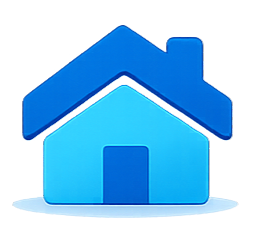
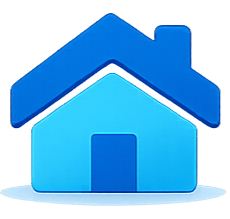
color

Changed region(s): [[0.0, 0.0548, 1.0, 0.9589]]

diff --git a/my-react-app/src/components/layout/Navbar.tsx b/my-react-app/src/components/layout/Navbar.tsx
@@ -8,21 +8,28 @@ import handlist from "../../assets/images/handlist.png";
 
 const Navbar: React.FC = () => {
   return (
-    <header className="sticky top-0 z-50 w-full border-b border-slate-200  bg-background-light/80  backdrop-blur-md">
+    <header className="sticky top-0 z-50 w-full border-b border-slate-200  bg-background-light/80  backdrop-blur-md ">
       <div className="flex w-full justify-center">
         <div className="flex w-full max-w-[1280px] items-center justify-between px-6 py-4 lg:px-10">
           {/* Logo */}
           <div className="flex items-center gap-3">
-            <div className="w-10 h-10 bg-white text-primary rounded-lg flex items-center justify-center shadow-sm">
+            {/* <div className="w-10 h-10 bg-white text-primary rounded-lg flex items-center justify-center shadow-sm">
               <img
                 src={logo}
                 alt="Lingo Speak Logo"
                 className="w-full h-full object-contain rounded-full"
               />
-            </div>
-            <h2 className="text-4xl font-bold tracking-tight">
-              <span style={{ color: "#115E59" }}>Lingo</span>
-              <span style={{ color: "#1E4F7A" }}>Speak</span>
+            </div> */}
+            <h2 className="flex items-baseline text-6xl font-bold tracking-tight gap-1 ">
+              <span className="bg-gradient-to-r from-blue-500 to-cyan-500 bg-clip-text text-transparent">
+                Ling
+              </span>
+
+              <img src={logo} alt="logo" className="h-12 w-12 inline-block" />
+
+              <span className="bg-gradient-to-r from-blue-500 to-cyan-500 bg-clip-text text-transparent">
+                Speak
+              </span>
             </h2>
           </div>
 
@@ -60,10 +67,15 @@ const Navbar: React.FC = () => {
 
           {/* Actions */}
           <div className="flex items-center gap-4">
-            <button className="hidden h-10 rounded-lg bg-primary/10 px-4 text-sm font-bold text-primary hover:bg-primary/20 sm:flex pt-2">
+            <button
+              className="h-11 px-6 rounded-xl text-white text-sm font-semibold
+                bg-gradient-to-r from-blue-500 via-cyan-500 to-emerald-500
+                shadow-lg shadow-blue-300/40
+                hover:scale-[1.03] transition"
+            >
               Đăng xuất
             </button>
-            <div className="size-10 overflow-hidden rounded-full border-2 border-white dark:border-slate-700 bg-slate-200">
+            <div className="size-11 overflow-hidden rounded-full border-2 border-cyan-200 dark:border-slate-700 bg-slate-200">
               <img
                 src={avatar}
                 alt="Lingo Speak Logo"

diff --git a/my-react-app/src/pages/Home.tsx b/my-react-app/src/pages/Home.tsx
@@ -6,7 +6,6 @@ import user1 from "../assets/images/user1.jpg";
 import user2 from "../assets/images/user2.jpg";
 import user3 from "../assets/images/user3.jpg";
 
-
 const avatarList = [user1, user2, user3];
 const typeQuestion = [
   {
@@ -113,7 +112,8 @@ const Home: React.FC = () => {
               <div className="space-y-4">
                 <h1 className="text-4xl font-black leading-tight tracking-tight md:text-5xl lg:text-6xl">
                   Học nói tiếng Anh <br className="hidden lg:block" />
-                  <span className="text-primary">đơn giản</span> – hiệu quả
+                  <span className="text-primary italic">đơn giản</span> – hiệu
+                  quả
                 </h1>
                 <p className="text-base text-slate-600  md:text-lg">
                   Nâng cao vốn từ vựng và tự tin giao tiếp với lộ trình học tập
@@ -122,10 +122,20 @@ const Home: React.FC = () => {
               </div>
 
               <div className="flex flex-col items-center gap-3 sm:flex-row md:justify-start">
-                <button className="h-12 min-w-[160px] rounded-xl bg-primary px-6 text-base font-bold text-white shadow-lg shadow-primary/25 transition-transform hover:scale-105 active:scale-95">
+                <button
+                  className="h-11 px-6 rounded-xl text-white text-sm font-semibold
+                bg-gradient-to-r from-blue-500 via-cyan-500 to-emerald-500
+                shadow-lg shadow-blue-300/40
+                hover:scale-[1.03] transition"
+                >
                   Bắt đầu học ngay
                 </button>
-                <button className="h-12 min-w-[160px] rounded-xl border border-slate-200  bg-white  px-6 text-base font-bold text-slate-700  hover:bg-slate-50 transition-colors">
+                <button
+                  className="h-11 px-6 rounded-xl text-sm font-semibold text-blue-600
+                bg-white border border-cyan-300
+
+                hover:bg-blue-50 transition"
+                >
                   Tìm hiểu thêm
                 </button>
               </div>

diff --git a/my-react-app/src/pages/SignUp.tsx b/my-react-app/src/pages/SignUp.tsx
@@ -19,13 +19,23 @@ const SignUp: React.FC = () => {
     >
       <div className="w-full max-w-6xl grid grid-cols-1 lg:grid-cols-2 gap-14 px-6">
         {/* LEFT CONTENT */}
-        <div className="flex flex-col justify-center gap-8">
+        <div className="flex flex-col justify-center gap-8 ">
           {/* Logo */}
-          <div className="flex items-center gap-3">
-            <div className="w-10 h-10 bg-white rounded-xl flex items-center justify-center shadow">
+          <div className="flex items-center gap-3 pb-8">
+            {/* <div className="w-10 h-10 bg-white rounded-xl flex items-center justify-center shadow">
               <img src={logo} alt="logo" className="rounded-full" />
-            </div>
-            <h2 className="text-4xl font-bold text-slate-900">LingoSpeak</h2>
+            </div> */}
+            <h2 className="flex items-center text-6xl font-bold tracking-tight gap-1">
+              <span className="bg-gradient-to-r from-blue-500 to-cyan-500 bg-clip-text text-transparent">
+                Ling
+              </span>
+
+              <img src={logo} alt="logo" className="h-12 w-12 inline-block" />
+
+              <span className="bg-gradient-to-r from-blue-500 to-cyan-500 bg-clip-text text-transparent">
+                Speak
+              </span>
+            </h2>
           </div>
 
           <h1 className="text-4xl font-extrabold leading-snug text-slate-900">
@@ -56,7 +66,7 @@ const SignUp: React.FC = () => {
             <button
               className="
                 h-11 px-6 rounded-xl text-sm font-semibold text-blue-600
-                bg-white border border-blue-200
+                bg-white border border-cyan-300
                 hover:bg-blue-50 transition
               "
             >

diff --git a/my-react-app/src/components/layout/Footer.tsx b/my-react-app/src/components/layout/Footer.tsx
@@ -9,16 +9,23 @@ const HomeFooter = () => {
           {/* Brand */}
           <div className="flex flex-col gap-4">
             <div className="flex items-center gap-3">
-              <div className="w-10 h-10 rounded-lg bg-white shadow-sm flex items-center justify-center">
+              {/* <div className="w-10 h-10 rounded-lg bg-white shadow-sm flex items-center justify-center">
                 <img
                   src={logo}
                   alt="Lingo Speak Logo"
                   className="w-full h-full object-contain rounded-full"
                 />
-              </div>
-              <h2 className="text-3xl font-bold tracking-tight">
-                <span style={{ color: "#115E59" }}>Lingo</span>
-                <span style={{ color: "#1E4F7A" }}>Speak</span>
+              </div> */}
+              <h2 className="flex items-center text-4xl font-bold tracking-tight gap-1">
+                <span className="bg-gradient-to-r from-blue-500 to-cyan-500 bg-clip-text text-transparent">
+                  Ling
+                </span>
+
+                <img src={logo} alt="logo" className="h-12 w-12 inline-block" />
+
+                <span className="bg-gradient-to-r from-blue-500 to-cyan-500 bg-clip-text text-transparent">
+                  Speak
+                </span>
               </h2>
             </div>
             <p className="text-sm text-slate-600 dark:text-slate-400 max-w-xs leading-relaxed">

diff --git a/my-react-app/src/pages/SignIn.tsx b/my-react-app/src/pages/SignIn.tsx
@@ -22,10 +22,20 @@ const SignIn: React.FC = () => {
         <div className="flex flex-col justify-center ">
           {/* Logo */}
           <div className="flex items-center gap-3 mb-4">
-            <div className="w-10 h-10 bg-white rounded-xl flex items-center justify-center shadow">
+            {/* <div className="w-10 h-10 bg-white rounded-xl flex items-center justify-center shadow">
               <img src={logo} alt="logo" className="rounded-full" />
-            </div>
-            <h2 className="text-xl font-bold text-slate-900">LingoSpeak</h2>
+            </div> */}
+            <h2 className="flex items-center text-6xl font-bold tracking-tight gap-1">
+              <span className="bg-gradient-to-r from-blue-500 to-cyan-500 bg-clip-text text-transparent">
+                Ling
+              </span>
+
+              <img src={logo} alt="logo" className="h-12 w-12 inline-block" />
+
+              <span className="bg-gradient-to-r from-blue-500 to-cyan-500 bg-clip-text text-transparent">
+                Speak
+              </span>
+            </h2>
           </div>
 
           {/* Heading */}

diff --git a/my-react-app/tailwind.config.js b/my-react-app/tailwind.config.js
@@ -4,7 +4,7 @@ export default {
   theme: {
     extend: {
       colors: {
-        primary: "#115E59",
+        primary: "#3B82F6",
         "background-light": "#f6f7f8",
         "background-dark": "#101922",
       },
